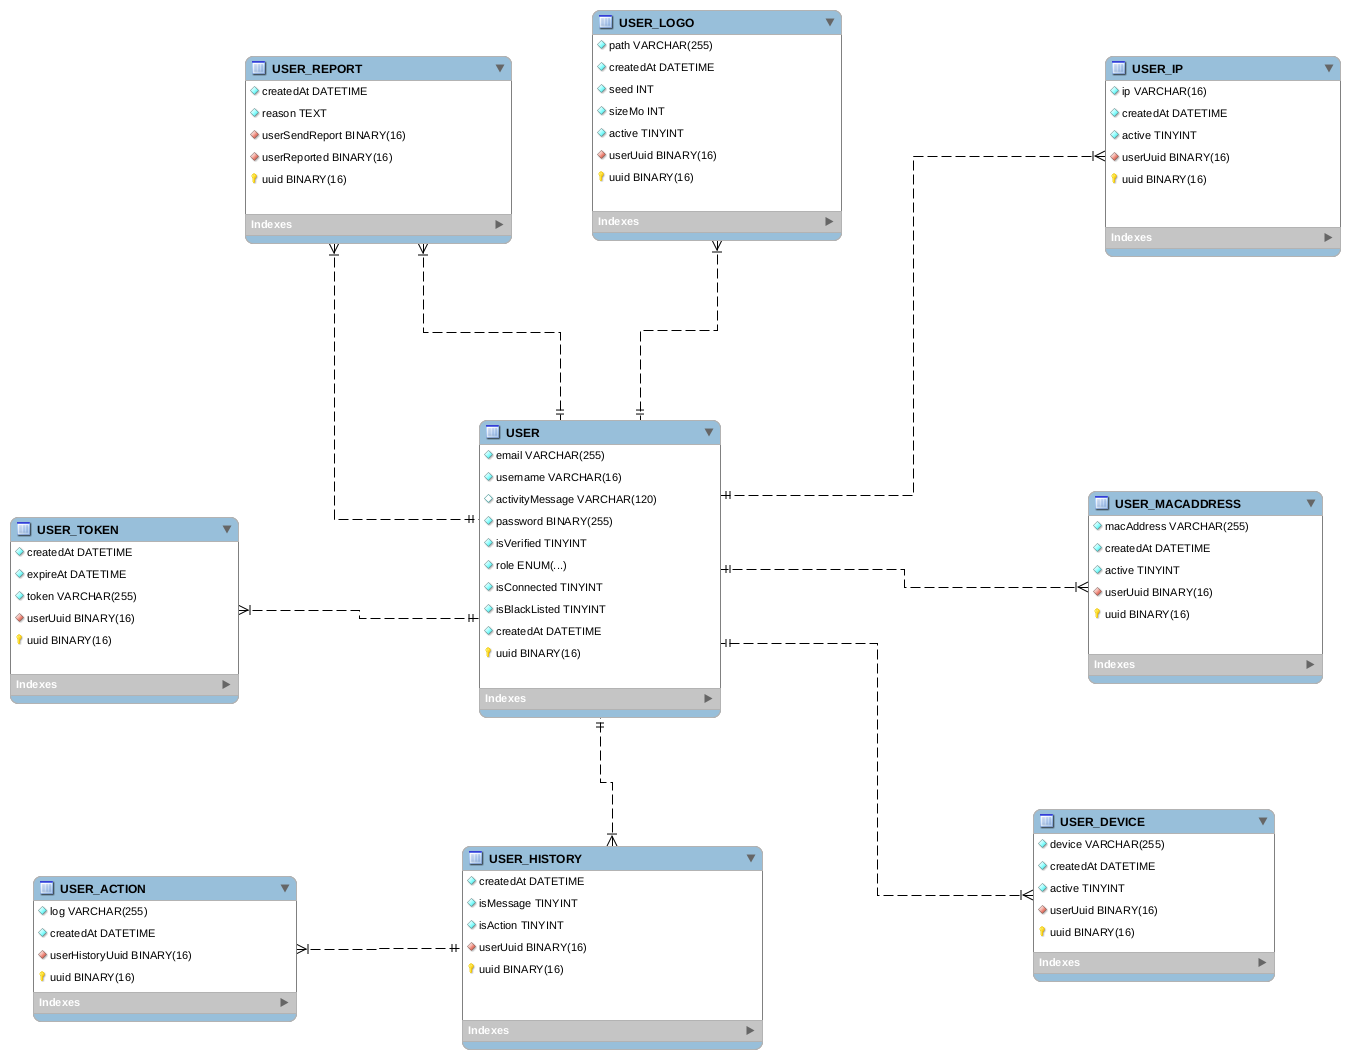
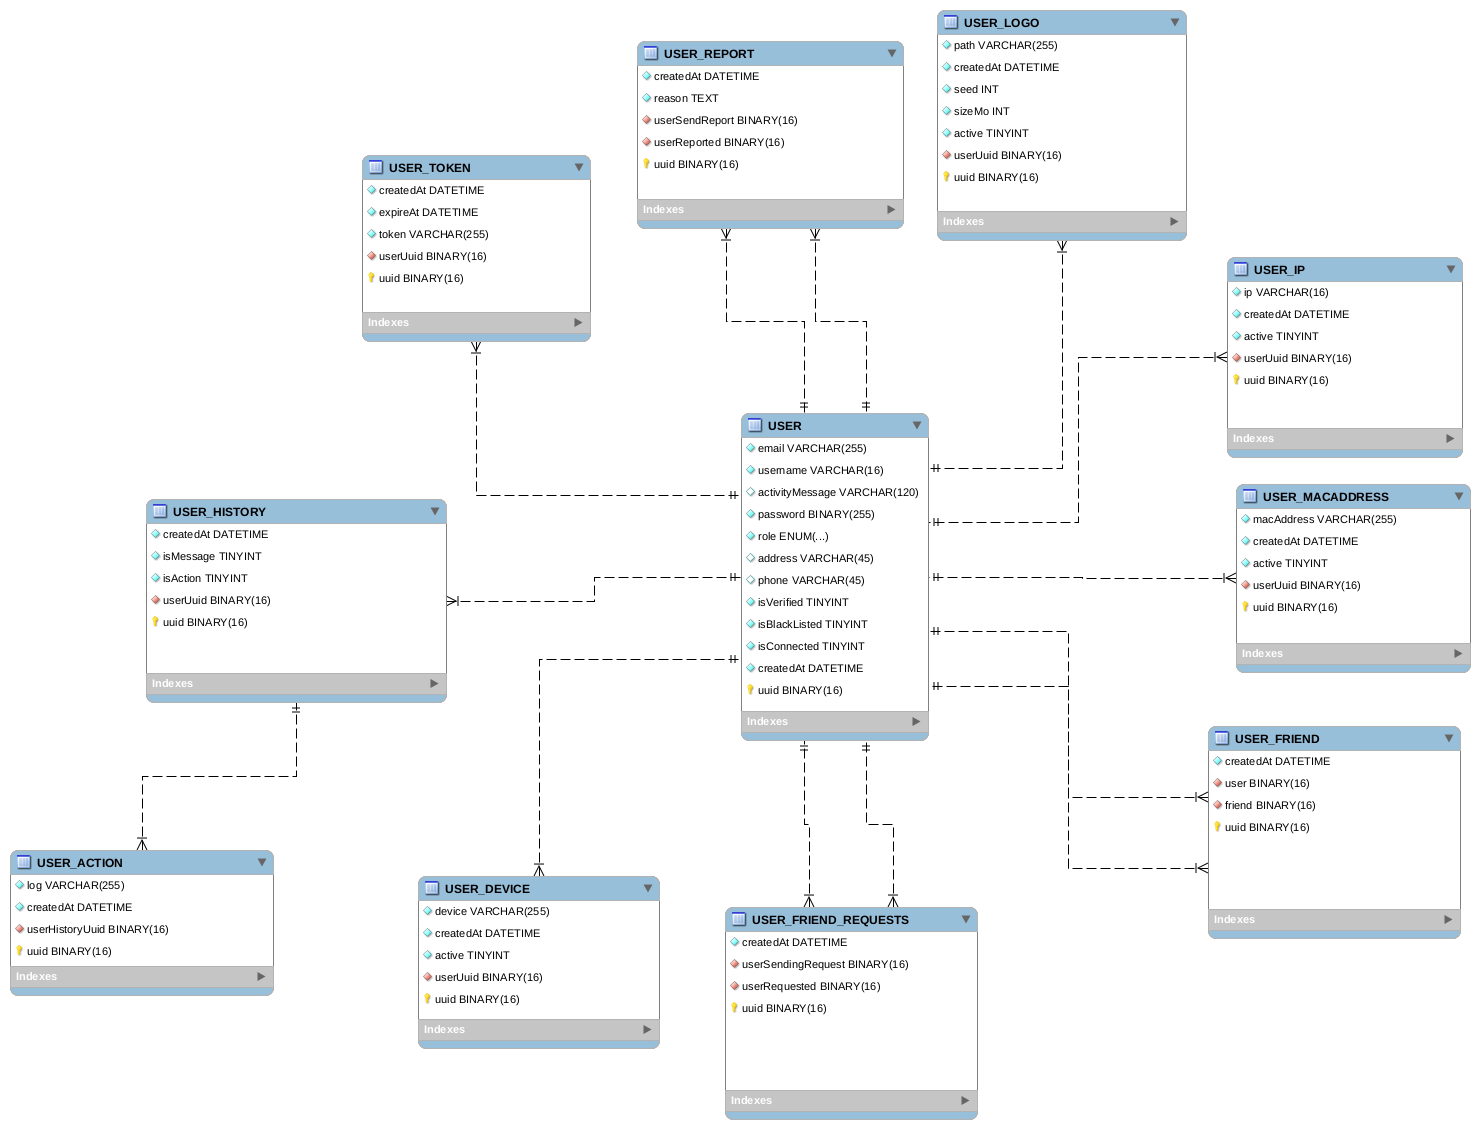
#85 : add new column address and phone

diff --git a/Api/src/server/controller/user/utils/userUtils.ts b/Api/src/server/controller/user/utils/userUtils.ts
@@ -7,11 +7,15 @@ interface ReqBody {
     email: string;
     username: string;
     activityMessage: string;
+    address: string;
+    phone: string;
 }
 
 export enum CodeError {
+    PHONE_NUMBER_INVALID = "UserUtils::transformBodyToUserForUpdate"
 }
 export enum MessageError {
+    PHONE_NUMBER_INVALID = 'PHONE_NUMBER_INVALID',
 }
 
 
@@ -36,6 +40,21 @@ export abstract class UserUtils extends ControllerUtils {
         if ('activityMessage' in body) {
             user.activityMessage = body.activityMessage;
         }
+        if ('address' in body) {
+            user.activityMessage = body.address;
+        }
+        if ('phone' in body) {
+            const regex = /^\d{3}\.\d{3}\.\d{3}\.\d{3}$/;
+            if (!regex.test(body.phone)) {
+                throw {
+                    code: CodeError.PHONE_NUMBER_INVALID,
+                    message: MessageError.PHONE_NUMBER_INVALID
+                };
+            }
+
+            user.activityMessage = body.phone;
+        }
+
         return user;
     }
 }

diff --git a/Api/src/server/controller/user/userController.ts b/Api/src/server/controller/user/userController.ts
@@ -48,6 +48,8 @@ export class UserController extends UserUtils {
                 user: {
                     username: tokenFKUser[0]!.username,
                     email: tokenFKUser[0]!.email,
+                    address: tokenFKUser[0]!.address,
+                    phone: tokenFKUser[0]!.phone,
                     activityMessage: tokenFKUser[0]!.activityMessage,
                     isConnected: tokenFKUser[0]!.isConnected,
                     createdAt: tokenFKUser[0]!.createdAt,

diff --git a/Api/src/server/model/interface/user/IUser.ts b/Api/src/server/model/interface/user/IUser.ts
@@ -3,8 +3,10 @@ export interface IUser {
     username?: string;
     password?: Buffer;
     activityMessage?: string;
-    isVerified?: boolean;
+    address?: string;
+    phone?: string;
     role?: string;
+    isVerified?: boolean;
     isConnected?: boolean;
     isBlackListed?: boolean;
     createdAt?: Date;
